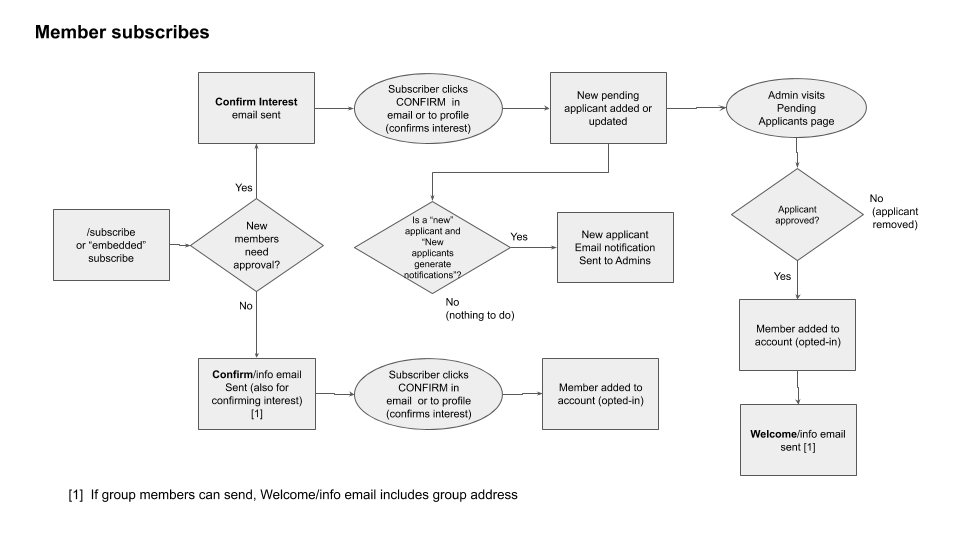
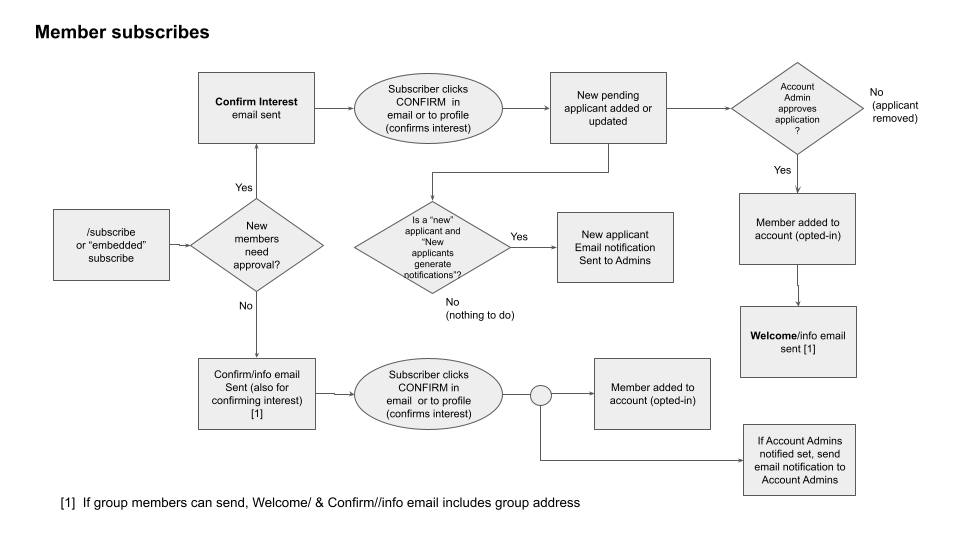
add 3rd member-add/subscribe flow-chart

diff --git a/2-members/1-membersAdd.md b/2-members/1-membersAdd.md
@@ -14,14 +14,17 @@ New members can be added to your account in the following ways:
 
 <span class="support">
 
-See the following diagrams which gives the flow for the two main cases:
+See the following diagrams which gives the flow for the following cases:
 
-1. new member signs up throught the /subscribe page and,
-2. new member is invited to join.
+1. new member signs up through the /subscribe page,
+2. new member is added or invited to join at the account level, and
+3. new member is added or invited to join in a sub-group.
 
 <img src="/docimages/subscribe-flow-1.png" width="100%">
 
 <img src="/docimages/subscribe-flow-2.png" width="100%">
+
+<img src="/docimages/subscribe-flow-3.png" width="100%">
 
 </span>
 
